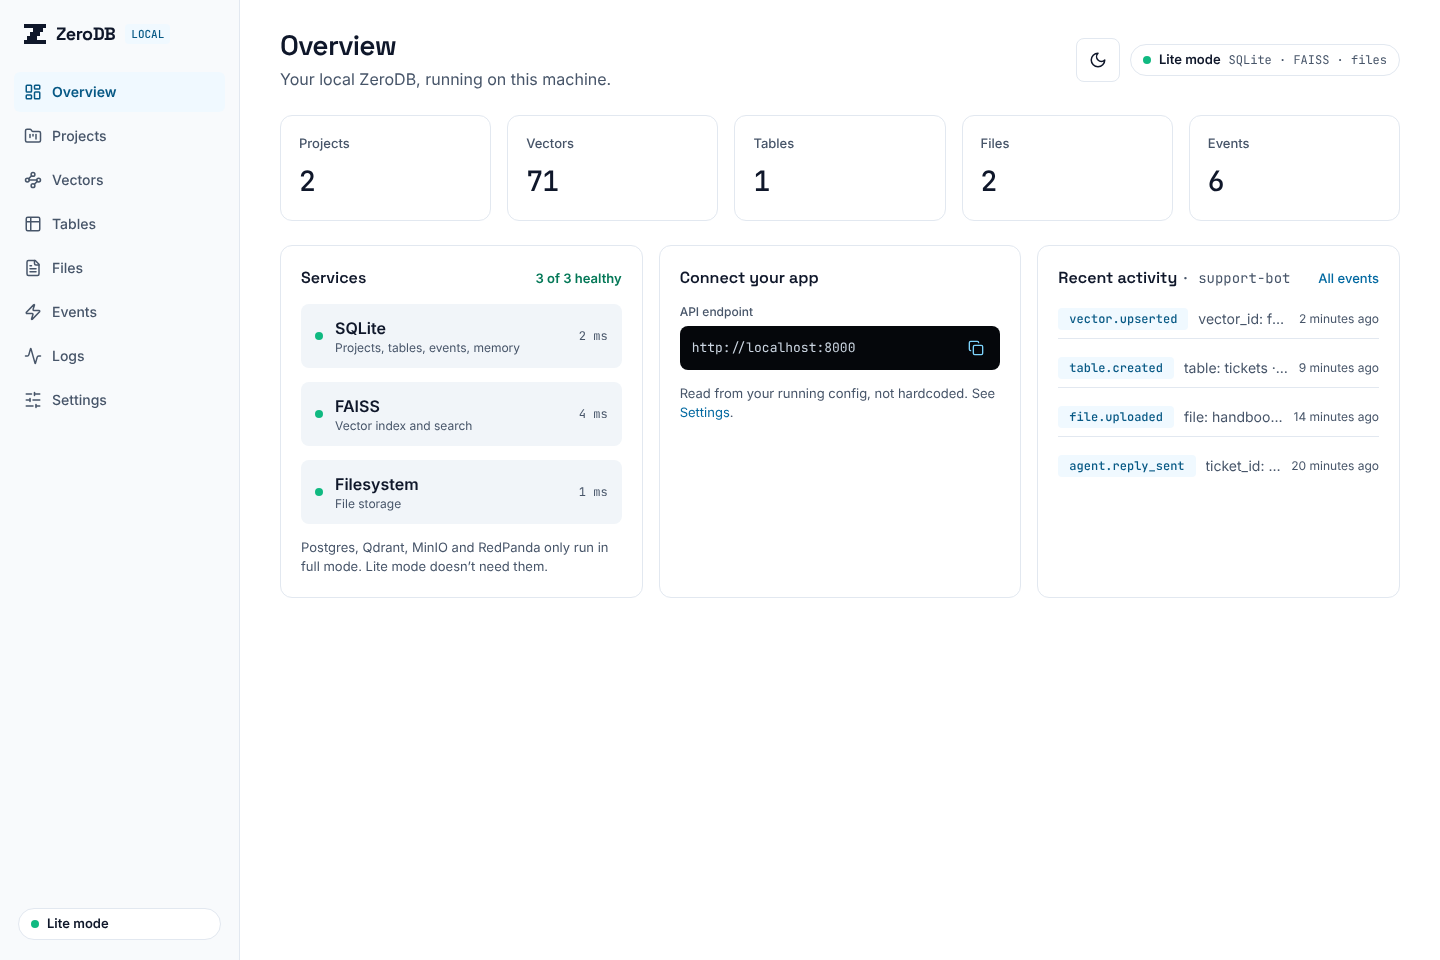
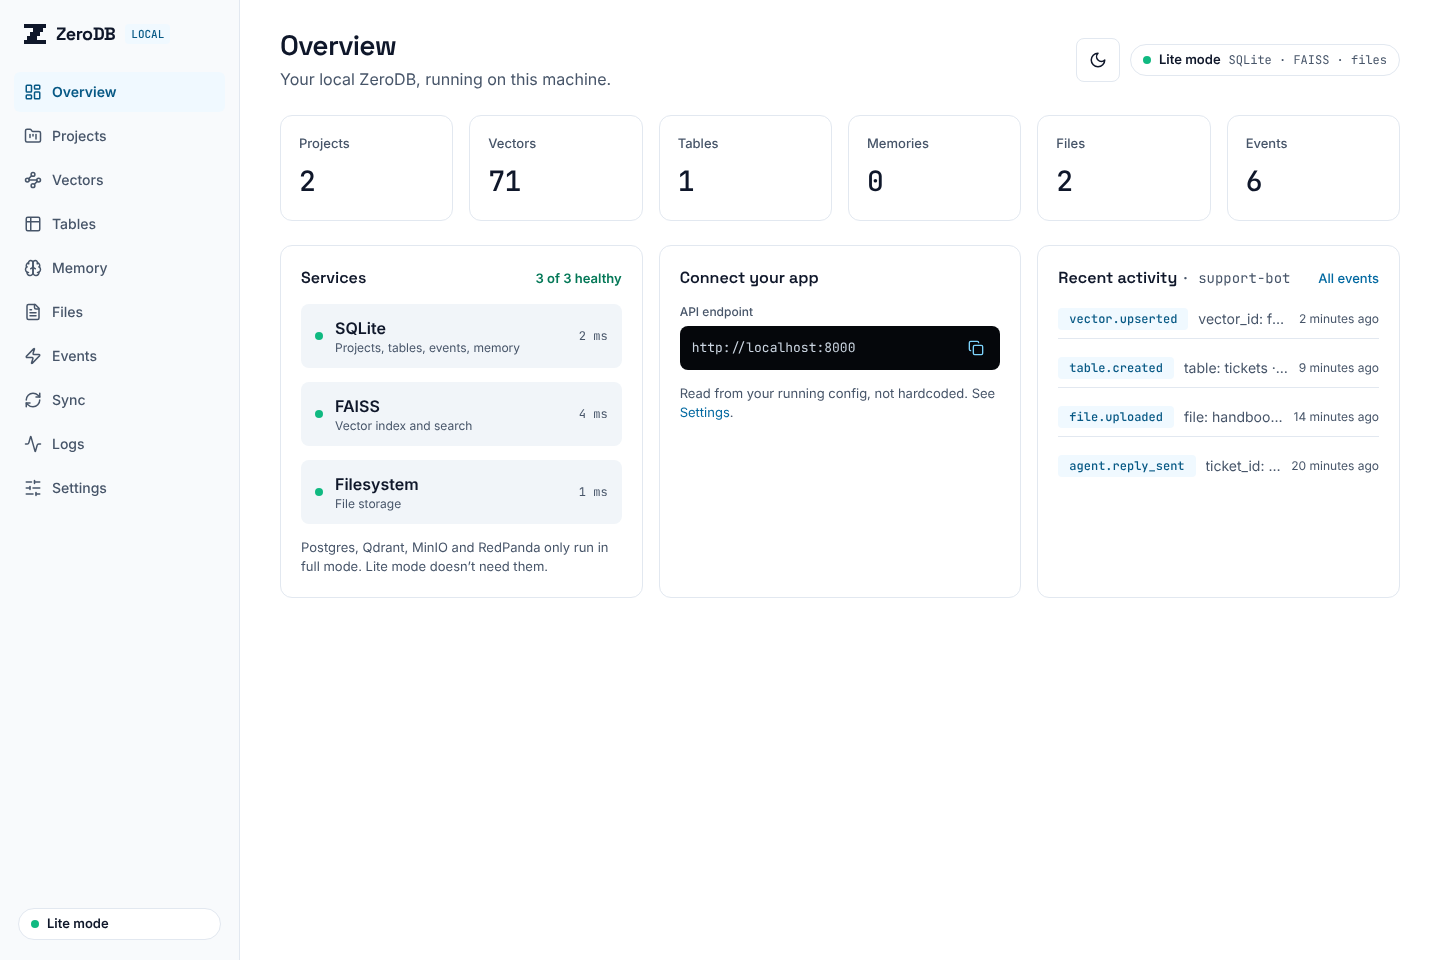
[DOCS] Getting-started README, setup fixes and dashboard audit
- README: how to run the dashboard in lite mode, ports table, sign-in
  and the built-in local user, default service credentials, network
  security note, page guide, troubleshooting; fix vector upsert/search
  examples that used fields the API rejects; add memory example
- Add the .env.local.example the README already referenced, with every
  variable docker-compose reads
- Dashboard Docker build: add the public/ folder the Dockerfile copies;
  pass NEXT_PUBLIC_API_URL as a build arg (Next bakes it in at build)
  instead of an unused VITE_API_URL runtime var
- Handoff doc: audit of API areas vs pages, sign-in findings, security
  options for lite mode's open network default; refreshed screenshots

Refs #67

diff --git a/README.md b/README.md
@@ -1,51 +1,139 @@
 # ZeroDB Local
 
-Run ZeroDB on your local machine. Two modes available:
-- **Lite mode** (recommended) — pip install, no Docker required
-- **Full mode** — Docker Compose with PostgreSQL, Qdrant, MinIO, RedPanda
+Run ZeroDB on your own machine: vectors, tables, agent memory, files and events behind the same API as ZeroDB Cloud, plus a web dashboard to manage it all.
 
-## Quick Start — Lite Mode (No Docker)
+Two ways to run it:
+- **Lite mode** (recommended to start): `pip install`, no Docker. SQLite + FAISS + local files.
+- **Full mode**: Docker Compose with PostgreSQL, Qdrant, MinIO and RedPanda.
+
+**At a glance**
+
+| | Lite mode | Full mode (Docker) |
+|---|---|---|
+| API | http://localhost:8000 | http://localhost:8000 |
+| API docs | http://localhost:8000/docs | http://localhost:8000/docs |
+| Dashboard | http://localhost:3000 (run it yourself, below) | http://localhost:3000 (starts with Compose) |
+| Sign-in | **None.** Every request acts as a built-in local user | **ZeroDB API key** by default (`ZERODB_AUTH_MODE=cloud`) |
+| Data | `~/.zerodb/data/` | Docker volumes |
+
+---
+
+## Quick start: lite mode (no Docker)
+
+**Needs:** Python 3.11+. For the dashboard, also Node.js 20+.
+
+### 1. Start the API
 
 ```bash
-pip install zerodb-local[lite]
+pip install "zerodb-local[lite]"
 zerodb serve
 ```
 
-That's it. Server starts at `http://localhost:8000` with:
+The API is now at **http://localhost:8000**, with:
 - SQLite database
 - FAISS vector search
-- In-process embeddings (BAAI/bge-small-en-v1.5, 384 dims)
+- In-process embeddings (BAAI/bge-small-en-v1.5, 384 dims). The model downloads once on first use (~130 MB), so the first vector upsert takes a little longer.
 - Local filesystem storage
 - SQLite event queue
 
-### Verify it works
+Check it:
 
 ```bash
-# Health check
 curl http://localhost:8000/health
-
-# Create a project
-curl -X POST http://localhost:8000/v1/projects \
-  -H "Content-Type: application/json" \
-  -d '{"name": "my-project", "description": "Testing ZeroDB Local"}'
 ```
 
-### CLI Options
+### 2. Start the dashboard
+
+The dashboard ships in this repo (it isn't part of the pip package):
 
 ```bash
-zerodb serve                        # Start on port 8000
-zerodb serve --port 9000            # Custom port
-zerodb serve --data-dir /my/data    # Custom data directory
-zerodb serve --cloud-key sk_...     # Enable cloud sync
+git clone https://github.com/AINative-Studio/zerodb-local.git
+cd zerodb-local/dashboard
+cp .env.example .env.local      # points the dashboard at http://localhost:8000
+npm ci
+npm run dev
 ```
 
-Data is stored at `~/.zerodb/data/` by default.
+Open **http://localhost:3000**. Use `localhost`, not `127.0.0.1`: the API only accepts browser requests from `http://localhost:3000` by default (set `CORS_ORIGINS` on the API to change that).
+
+From there you can do everything without the CLI or curl: create a project, add vectors and tables, store agent memory, upload files, publish events and sync to the cloud.
+
+### Options
+
+```bash
+zerodb serve --port 9000                         # different API port
+zerodb serve --host 127.0.0.1                    # only reachable from this machine
+ZERODB_DATA_DIR=/my/data zerodb serve            # different data folder
+CLOUD_API_KEY=sk_... zerodb serve                # enable cloud sync
+```
+
+If you change the API port, set `NEXT_PUBLIC_API_URL` in `dashboard/.env.local` to match and restart `npm run dev`.
+
+When running from a source checkout, `zerodb serve` also accepts `--data-dir` and `--cloud-key`.
+
+---
+
+## Sign-in, users and default passwords
+
+**Lite mode has no login.** There's no user account to create and no password. Every request is treated as one built-in local user:
+
+| Setting | Default | Override with |
+|---|---|---|
+| User ID | `00000000-0000-0000-0000-000000000001` | `ZERODB_USER_ID` |
+| Email | `dev@localhost` | `ZERODB_USER_EMAIL` |
+| Username | `local-developer` | `ZERODB_USERNAME` |
+
+**Full mode (Docker) requires a ZeroDB API key by default** (`ZERODB_AUTH_MODE=cloud`). Either set `CLOUD_API_KEY` in `.env.local`, or open the dashboard and paste your key in **Settings › Connection**. The dashboard keeps it in your browser and sends it as `Authorization: Bearer <key>`; if the API turns a request down, the dashboard shows a banner pointing you there. Set `ZERODB_AUTH_MODE=local` to switch full mode to no-login like lite mode. Get a key at https://www.ainative.studio/dashboard/api-keys.
+
+**Default service credentials (full mode only).** These are for the containers, not for you to log in to the dashboard. Change them in `.env.local` before exposing anything beyond your machine:
+
+| Service | Username | Password |
+|---|---|---|
+| PostgreSQL (`localhost:5432`, db `zerodb_local`) | `zerodb` | `localpass` |
+| MinIO console (http://localhost:9001) | `minioadmin` | `minioadmin` |
+
+> **Security note.** In no-login mode, anyone who can reach the API's port can read, change and delete everything. `zerodb serve` listens on all network interfaces (`0.0.0.0`) by default, so on shared Wi-Fi other people on the network can reach it. Use `zerodb serve --host 127.0.0.1` unless you mean to share it, and don't forward these ports to the internet.
+
+---
+
+## Ports
+
+| Port | What | Mode | Change with |
+|---|---|---|---|
+| **8000** | ZeroDB API (+ `/docs`, `/health`) | both | `zerodb serve --port`, or `ZERODB_API_PORT` |
+| **3000** | Dashboard | both | `npm run dev -- -p <port>`, or `ZERODB_DASHBOARD_PORT` |
+| 8001 | Embeddings service | full | `ZERODB_EMBEDDINGS_PORT` |
+| 5432 | PostgreSQL | full | `ZERODB_POSTGRES_PORT` |
+| 6333 / 6334 | Qdrant REST / gRPC | full | `ZERODB_QDRANT_REST_PORT` / `ZERODB_QDRANT_GRPC_PORT` |
+| 9000 / 9001 | MinIO API / console | full | `ZERODB_MINIO_API_PORT` / `ZERODB_MINIO_CONSOLE_PORT` |
+| 9092 / 8082 / 9644 | RedPanda Kafka / proxy / admin | full | `ZERODB_REDPANDA_*_PORT` |
+
+If you move the dashboard to another port, add it to the API's `CORS_ORIGINS` (comma-separated).
+
+---
+
+## The dashboard
+
+| Page | What you can do |
+|---|---|
+| Overview | See which backend is running (lite/full) and its health, totals across projects, your API endpoint, recent activity |
+| Projects | Create, search and delete projects. Everything else lives inside a project |
+| Vectors | Upsert text (embedded for you, free), search by meaning, filter by namespace, delete |
+| Tables | Create tables with a column builder or a JSON schema, add rows, browse, delete |
+| Memory | Browse agent conversations by session, search memory by meaning, add or delete memories |
+| Files | Upload (drag and drop), download, delete |
+| Events | Live feed filtered by type, event details, publish test events |
+| Sync | See what's waiting, preview a push/pull plan, run it, resolve conflicts, view history |
+| Logs | Live server logs with level, service and time filters; export |
+| Settings | Light/dark/system theme, server details, API key, create-form defaults, cloud connection |
+
+Every create form opens in a guided mode with plain-language fields, with an **Advanced JSON** switch that shows the exact API request.
 
 ## Features
 
 - **Two backends**: Lite (SQLite + FAISS) or Full (PostgreSQL + Qdrant + Docker)
-- **Local API Server**: Mirrors all 128 ZeroDB Cloud endpoints
-- **Web Dashboard**: Manage projects, vectors, tables, files, and events via UI
+- **Local API Server**: Mirrors the ZeroDB Cloud API
+- **Web Dashboard**: Manage projects, vectors, tables, memory, files, events and sync via UI
 - **CLI Tool**: `zerodb` command for local control and cloud sync
 - **Offline-First**: Work without internet, sync when ready
 - **No API Costs**: Local embeddings using BAAI BGE models (free)
@@ -77,8 +165,8 @@ For production-like environments with PostgreSQL, Qdrant, MinIO, and RedPanda.
    ```
 
 3. **Edit `.env.local`** (optional):
-   - Update `POSTGRES_PASSWORD` for production use
-   - Set `CLOUD_API_KEY` if you want cloud sync
+   - Set `CLOUD_API_KEY` (needed for the default cloud sign-in and for cloud sync), or set `ZERODB_AUTH_MODE=local` for no login
+   - Change `POSTGRES_PASSWORD` and the MinIO keys from their defaults
    - Adjust `EMBEDDINGS_MODEL` based on your needs
 
 4. **Start all services**:
@@ -102,6 +190,7 @@ For production-like environments with PostgreSQL, Qdrant, MinIO, and RedPanda.
 
 6. **Access the dashboard**:
    - Open http://localhost:3000 in your browser
+   - If you kept cloud sign-in, paste your API key in **Settings › Connection**
 
 7. **Check API health**:
    ```bash
@@ -189,8 +278,8 @@ For production-like environments with PostgreSQL, Qdrant, MinIO, and RedPanda.
 
 ### Dashboard (Port 3000)
 - **Purpose**: Web UI for local management
-- **Framework**: React 18 + TypeScript + Vite
-- **Features**: Projects, vectors, tables, files, events, sync
+- **Framework**: Next.js 14 (App Router) + React 18 + TypeScript + Tailwind
+- **Features**: Projects, vectors, tables, memory, files, events, sync, logs, settings (see [The dashboard](#the-dashboard))
 
 ## Usage Examples
 
@@ -204,26 +293,43 @@ curl -X POST http://localhost:8000/v1/projects \
   }'
 ```
 
+In full mode with cloud sign-in, add `-H "Authorization: Bearer $CLOUD_API_KEY"` to each request. Lite mode needs no header.
+
 ### Upsert a Vector
+The API embeds `document` for you (free, local model). Reusing a `vector_id` replaces that vector.
 ```bash
 curl -X POST http://localhost:8000/v1/projects/{project_id}/database/vectors/upsert \
   -H "Content-Type: application/json" \
   -d '{
-    "vector_embedding": [0.1, 0.2, 0.3, ...],
-    "document": "This is my document",
-    "metadata": {"source": "local-test"}
+    "document": "Refunds are issued within 5 business days.",
+    "namespace": "faq",
+    "vector_id": "faq-refunds",
+    "metadata": {"topic": "billing"}
   }'
 ```
 
 ### Search Vectors
+Search by meaning with plain text:
 ```bash
 curl -X POST http://localhost:8000/v1/projects/{project_id}/database/vectors/search \
   -H "Content-Type: application/json" \
   -d '{
-    "query_vector": [0.1, 0.2, 0.3, ...],
+    "query": "how long do refunds take",
+    "namespace": "faq",
     "limit": 10,
-    "threshold": 0.7
+    "threshold": 0.3
   }'
+```
+
+### Store and recall agent memory
+```bash
+curl -X POST http://localhost:8000/v1/projects/{project_id}/database/memory/store \
+  -H "Content-Type: application/json" \
+  -d '{"content": "Prefers annual billing", "role": "user", "agent_id": "support", "session_id": "chat-42"}'
+
+curl -X POST http://localhost:8000/v1/projects/{project_id}/database/memory/search \
+  -H "Content-Type: application/json" \
+  -d '{"query": "billing preference", "agent_id": "support"}'
 ```
 
 ## CLI Tool
@@ -295,8 +401,15 @@ npm run dev
 
 ### Run Tests
 ```bash
+# API
 cd api
 pytest tests/ -v --cov
+
+# Dashboard
+cd dashboard
+npm test              # unit + page tests (Vitest)
+npm run type-check
+npm run lint
 ```
 
 ## Troubleshooting
@@ -312,6 +425,14 @@ docker-compose restart zerodb-api
 # Full reset
 docker-compose down -v && docker-compose up -d
 ```
+
+### Dashboard shows "This server needs an API key"
+The API is in cloud sign-in mode (the full-mode default). Paste your ZeroDB API key in **Settings › Connection**, or set `ZERODB_AUTH_MODE=local` in `.env.local` and restart the API.
+
+### Dashboard can't reach the API
+- Is the API running? `curl http://localhost:8000/health`
+- Open the dashboard at `http://localhost:3000`, not `127.0.0.1` (CORS)
+- Changed the API port? Update `NEXT_PUBLIC_API_URL` in `dashboard/.env.local` (or rebuild the Docker dashboard image)
 
 ### Port conflicts
 ```bash
@@ -363,6 +484,9 @@ docker-compose exec postgres psql -U zerodb -d zerodb_local
    ```
 
 ### Sync Workflow
+In the dashboard: **Sync** page → choose Push / Pull / Both → **Preview sync** → review → **Run sync**.
+
+From the CLI:
 ```bash
 # 1. Make changes locally (add vectors, tables, etc.)
 

diff --git a/docs/features/DASHBOARD_REDESIGN.md b/docs/features/DASHBOARD_REDESIGN.md
@@ -22,12 +22,39 @@ Screenshots of the built pages (light, dark, phone, dialogs) are in [`docs/desig
 | `/projects` | Search, cards with usage counts, **New project** dialog (with "Show API request"), delete with in-page confirm |
 | `/vectors` | List by namespace, semantic search (scored), delete, **Upsert vector** dialog: Guided (text, namespace, ID, tags→metadata) / Advanced JSON |
 | `/tables` | Table list, row viewer typed from the schema, **Create table** dialog: Column builder (plain-language types, required, enum options) / JSON schema, **Add row** dialog with typed inputs, delete table |
+| `/memory` | Agent memory by session (conversation view, roles, token estimate), semantic search across memory, agent filter, **Add memory** dialog (Guided / Advanced JSON, pre-fills the open session), delete session |
 | `/files` | Drag-and-drop or browse upload (multi-file, sequential), list, download, delete |
 | `/events` | Feed with family filter chips (`vector.*`, `table.*`…), detail panel with JSON, Live (3s polling) / Paused, **Publish event** dialog |
+| `/sync` | Pending changes, last sync, cloud connection; **Preview sync** (push / pull / both, conflict rule) shows counts, schema changes, warnings and steps before **Run sync**; conflicts with side-by-side versions and keep-local / keep-cloud; history |
 | `/logs` | Six stat cards replaced by one row of level toggles; service, time-range and line-count filters; search; live refresh; export; always-dark terminal surface |
-| `/settings` | Theme, real server values (API URL in use, dashboard origin, backend from `/health`), create-form defaults, cloud sync status + connect with API key |
+| `/settings` | Theme, real server values (API URL in use, dashboard origin, backend from `/health`), **Connection** (API key for servers with cloud sign-in), create-form defaults, cloud sync status + connect with API key |
 
 Shared: the selected project is app-wide (`ProjectProvider`) and shown as a picker in every project-scoped page header, so moving between pages keeps your place. `?new=1` on Projects/Vectors/Tables opens the create dialog (used by Overview and empty states).
+
+## Audit: pages, sign-in and setup (Nov 22, second pass)
+
+Every API router was checked against the dashboard. Result:
+
+| API area | Before | Now |
+|---|---|---|
+| Projects, vectors, tables, files, events, logs | built in the first pass | — |
+| Memory (`/database/memory/*`) | no page; client called a route that doesn't exist | **Memory page** |
+| Sync: plan / execute / status, conflicts, history | no page | **Sync page** |
+| Sync internals: change log, schema diff, export bundles, pull preview/apply, rollback, sync state | no page | Left to the CLI on purpose; the Sync page covers the user-facing flow through the orchestrator |
+| `raymond` router | — | Client-specific, not dashboard material |
+
+**Sign-in.** There are no user accounts, login routes or passwords in the API. Lite mode (`ZERODB_AUTH_MODE` defaults to `local`) treats every request as one built-in user. Full mode defaults to `cloud`, which needs a ZeroDB API key on every request; before this pass the dashboard sent none, so **every dashboard request failed with 401 in full mode** unless `CLOUD_API_KEY` was set on the server. Fixed: Settings › Connection stores a key in the browser and the client sends it as a Bearer token; any 401/403 shows a banner on every page pointing there.
+
+**Setup gaps fixed in this pass:**
+- `dashboard/Dockerfile` copies `public/`, which didn't exist, so the dashboard image build failed. Added `public/` (brand mark) and an app icon. *Not built here (no Docker daemon in this environment); run `docker compose build dashboard`.*
+- Compose passed `VITE_API_URL` to a Next.js app that reads `NEXT_PUBLIC_API_URL`, and as a runtime env var although Next bakes it in at build. Now a build arg (+ `API_INTERNAL_URL` at runtime).
+- README referenced `.env.local.example`, which didn't exist. Added at the repo root with every variable Compose reads, documented.
+- README rewritten for first-time setup: how to run the dashboard in lite mode (it isn't in the pip package), ports table, sign-in and the built-in local user, default service credentials (Postgres `zerodb` / `localpass`, MinIO `minioadmin` / `minioadmin`), the security note below, a page guide, troubleshooting. Its vector upsert/search curl examples used fields the API doesn't accept (`vector_embedding`, `query_vector`); fixed. The pip-installed `zerodb serve` only has `--host/--port/--reload`; README now uses `ZERODB_DATA_DIR` / `CLOUD_API_KEY`, which work either way.
+
+**Security recommendation (not changed, needs a decision):** lite mode has no sign-in *and* `zerodb serve` binds `0.0.0.0` by default (asserted in `cli/tests/test_serve_command.py`), so anyone on the same network can read and delete everything. Options, in order of effort:
+1. Default `--host` to `127.0.0.1` (one-line change + test update; Docker is unaffected since the container sets its own host).
+2. Add an optional local access key (`ZERODB_LOCAL_API_KEY`): when set, lite mode requires it as a Bearer token. The dashboard already sends one from Settings › Connection, so no UI work. A FastAPI dependency + tests.
+3. Real local users with login. Most work, and a shipped default password would be no better than option 1; not recommended for a single-developer tool.
 
 ## Where things live
 
@@ -42,13 +69,16 @@ dashboard/
   lib/events.ts                 family grouping/filtering, data parsing, summaries
   lib/files.ts                  base64 helpers, download, content-type names
   lib/preferences.ts            per-browser create-form defaults
+  lib/memory-form.ts            guided memory form <-> store body
+  lib/api-key.ts                optional API key for cloud sign-in servers
   services/api-client.ts        createApiClient(http) -- injectable, typed to the real API
   types/index.ts                response types matching api/routers/*.py
   components/providers/         theme-provider, project-provider, query-provider
   components/layout/            sidebar, page-header (+ project picker), mode-badge, theme-toggle, states
   components/ui/                button/badge/input/card (rebranded) + dialog, form-controls
                                 (Select, Textarea, Field), segmented, confirm-dialog, copy-field
-  components/{projects,vectors,tables,events}/   the create dialogs
+  components/{projects,vectors,tables,memory,events}/   the create dialogs
+  components/layout/auth-notice.tsx               401 banner
 ```
 
 Conventions kept from the existing kit: Radix primitive where one exists, `cva` variants, `forwardRef`, Tailwind classes that read CSS variables. No new UI framework. New dependencies: `@fontsource-variable/{inter,space-grotesk,jetbrains-mono}` (fonts are bundled so the dashboard works offline; `next/font/google` needs network at build) and `@testing-library/user-event` (dev).
@@ -66,10 +96,10 @@ The design canvas was drawn before checking the request models. The code follows
 
 ## Verified
 
-- `npm test`: **118 passing** (14 files): pure logic, API client (now with an injected HTTP instance; the old suite made real requests to localhost:8000), theme provider, and page-level tests that drive each create flow through the UI.
+- `npm test`: **144 passing** (16 files): pure logic, API client (now with an injected HTTP instance; the old suite made real requests to localhost:8000), theme provider, and page-level tests that drive each create flow through the UI.
 - `npx tsc --noEmit`, `npm run lint`: clean.
-- `npm run build`: all 8 routes prerender.
-- Production build loaded in Chromium against fixture API data, every page in light, dark and 390px phone width: **no console errors, no horizontal page scroll**. That pass caught and fixed a hydration mismatch (browser-only values rendered on the server) and table "Actions" labels escaping their scroll box on phones.
+- `npm run build`: all 10 routes prerender.
+- Production build loaded in Chromium against fixture API data, every page in light, dark and 390px phone width (plus the 401 banner): **no console errors, no horizontal page scroll**. That pass caught and fixed a hydration mismatch (browser-only values rendered on the server) and table "Actions" labels escaping their scroll box on phones.
 - Also fixed two tests already failing on `main`: a timezone-dependent `formatDate` test and the network-calling API client suite.
 
 ## Not verified / left to do locally
@@ -78,9 +108,10 @@ The design canvas was drawn before checking the request models. The code follows
 2. **Vector IDs containing `/`.** Delete calls `DELETE .../vectors/{vector_id}`, and the router matches on `vector_id` (checked). But an ID like `faq/refund-policy` is decoded to a real slash before routing, so it won't reach that route. Either declare the param as `{vector_id:path}` in `api/routers/vectors.py` (same for `GET /{vector_id}`), or have the Upsert form reject `/` in custom IDs.
 3. **Large uploads.** Each file is base64-encoded in the browser and posted in one JSON body. Check what the API accepts and add a size guard with a clear message.
 4. **Live events.** The feed polls every 3s. `POST /events/subscribe` exists; switch to it if there's an SSE/WebSocket channel to read from.
-5. **Memory.** The API stores agent memory (`usage.memory`, `/database/memory`) but there's still no Memory page. Decision #1 says nothing ships as a placeholder; a Memory page is the one gap. Needs a product call.
-6. **Next.js 14.2.15 security advisories** (33 npm audit findings) remain. Framework bump is a separate, engineering-owned task.
-7. `next start` warns because `next.config.mjs` sets `output: 'standalone'`; for local runs use `node .next/standalone/server.js` (Dockerfile already does).
+5. **Lite-mode security default.** See the recommendation above; needs a call between options 1 and 2.
+6. **Sync against a real cloud account.** The Sync and Memory pages are built to the API's response models and tested with mocks; run a real push/pull once a project is connected.
+7. **Next.js 14.2.15 security advisories** (33 npm audit findings) remain. Framework bump is a separate, engineering-owned task.
+8. `next start` warns because `next.config.mjs` sets `output: 'standalone'`; for local runs use `node .next/standalone/server.js` (Dockerfile already does).
 
 ## Run it
 
